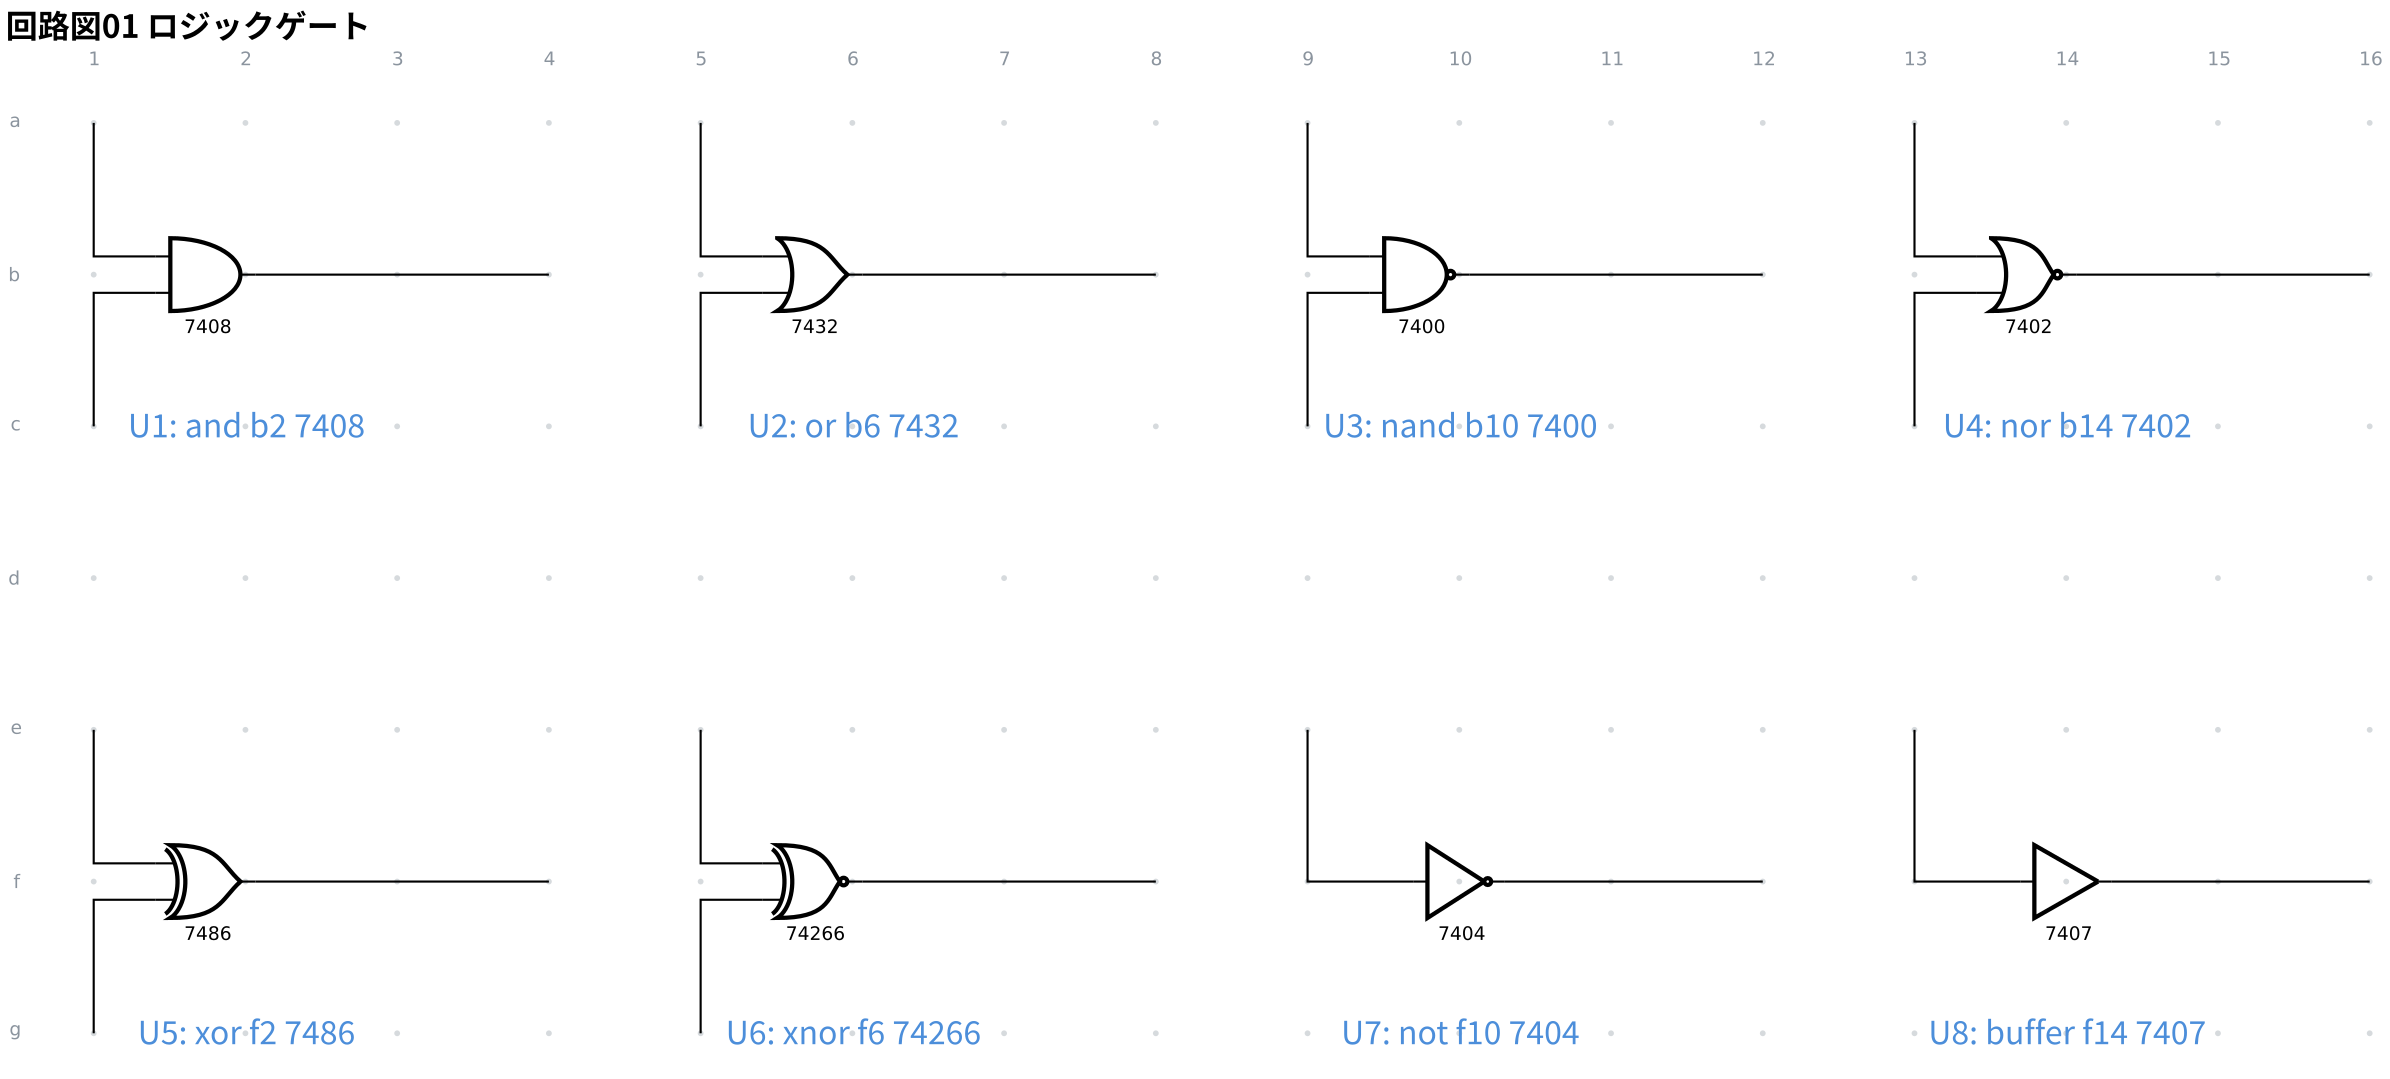
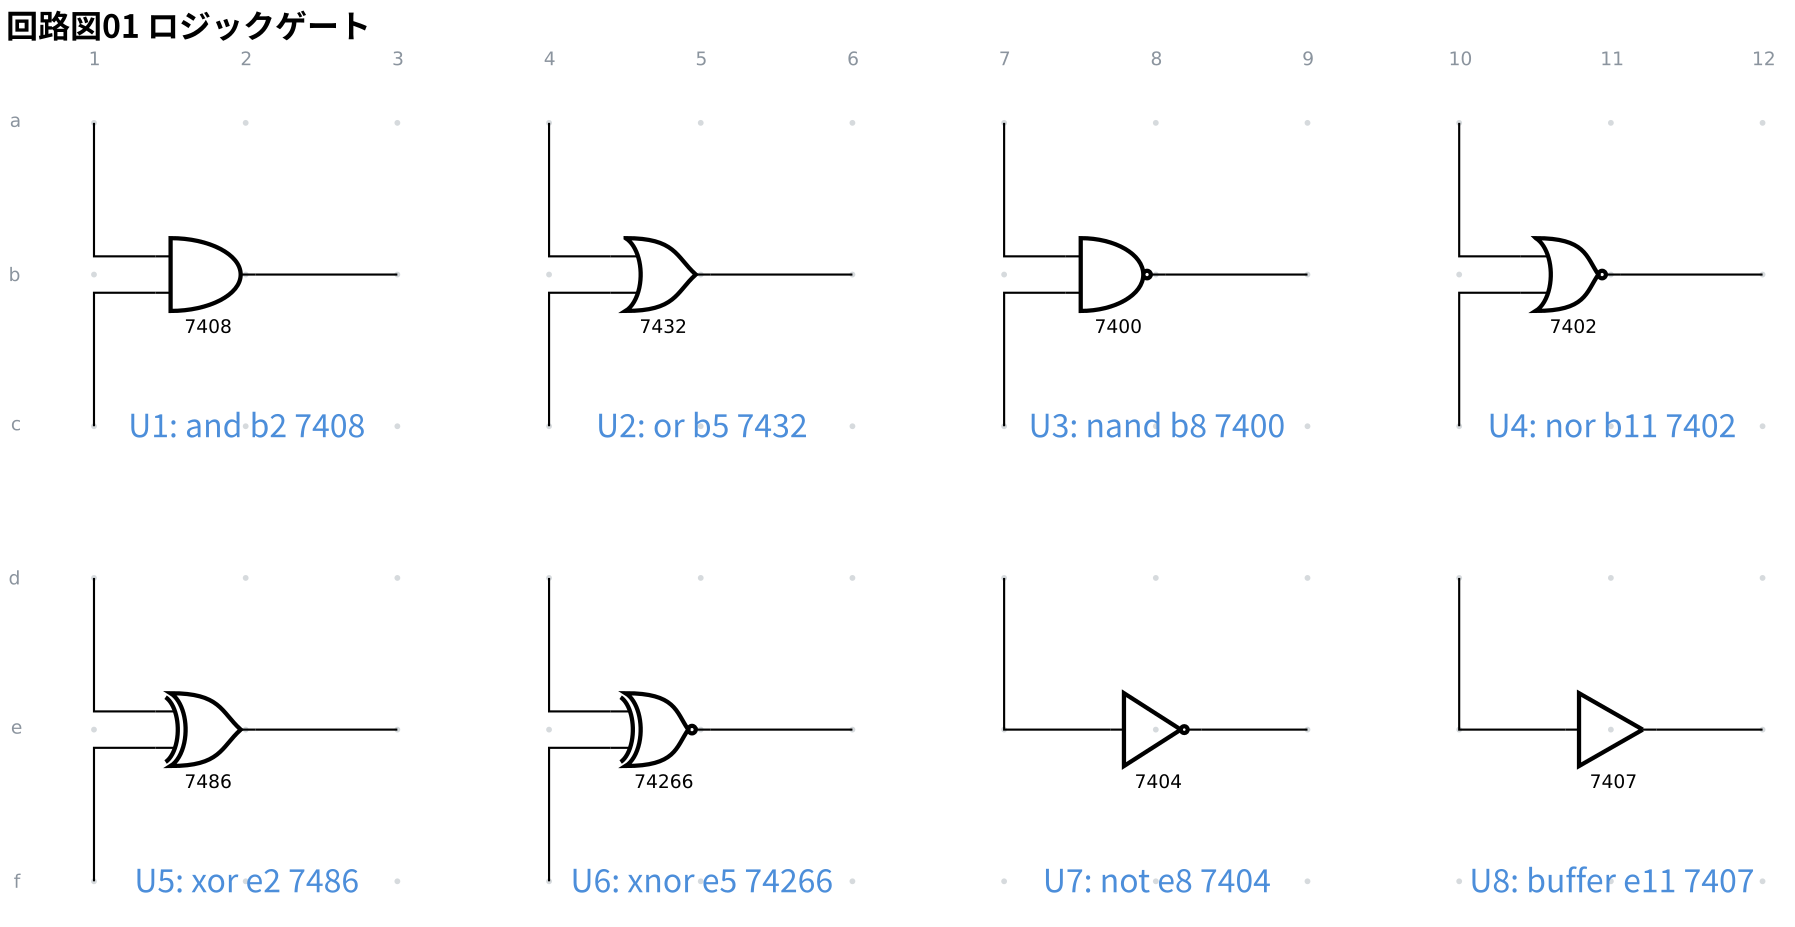
docs: ロジックゲートの図を詰める
ゲートの間隔を 4 列から 3 列に、出力の線を 2 マスから 1 マスに
縮め、段の間の空行 (d 行) をなくす。16 列 × 7 行が 12 列 × 6 行に
収まり、埋め込み先 (syntax.md) で記号が大きく出る。

🤖 Generated with [Claude Code](https://claude.com/claude-code)

diff --git a/packages/circuit-fence/examples/out/11-logic-1.tex b/packages/circuit-fence/examples/out/11-logic-1.tex
@@ -5,7 +5,7 @@
 \begin{document}
 \begin{circuitikz}[american, line width=0.8pt]
 \ctikzset{bipoles/length=1.2cm}
-\foreach \x in {0,2,4,6,8,10,12,14,16,18,20,22,24,26,28,30} {\foreach \y in {0,-2,-4,-6,-8,-10,-12} {\fill[gray, opacity=0.35] (\x,\y) circle (1.1pt);}}
+\foreach \x in {0,2,4,6,8,10,12,14,16,18,20,22} {\foreach \y in {0,-2,-4,-6,-8,-10} {\fill[gray, opacity=0.35] (\x,\y) circle (1.1pt);}}
 \node[gray, font=\scriptsize] at (0,0.84) {1};
 \node[gray, font=\scriptsize] at (2,0.84) {2};
 \node[gray, font=\scriptsize] at (4,0.84) {3};
@@ -18,101 +18,96 @@
 \node[gray, font=\scriptsize] at (18,0.84) {10};
 \node[gray, font=\scriptsize] at (20,0.84) {11};
 \node[gray, font=\scriptsize] at (22,0.84) {12};
-\node[gray, font=\scriptsize] at (24,0.84) {13};
-\node[gray, font=\scriptsize] at (26,0.84) {14};
-\node[gray, font=\scriptsize] at (28,0.84) {15};
-\node[gray, font=\scriptsize] at (30,0.84) {16};
 \node[gray, font=\scriptsize, anchor=east] at (-0.84,0) {a};
 \node[gray, font=\scriptsize, anchor=east] at (-0.84,-2) {b};
 \node[gray, font=\scriptsize, anchor=east] at (-0.84,-4) {c};
 \node[gray, font=\scriptsize, anchor=east] at (-0.84,-6) {d};
 \node[gray, font=\scriptsize, anchor=east] at (-0.84,-8) {e};
 \node[gray, font=\scriptsize, anchor=east] at (-0.84,-10) {f};
-\node[gray, font=\scriptsize, anchor=east] at (-0.84,-12) {g};
 \coordinate (b2) at (2,-2);
-\coordinate (b6) at (10,-2);
-\coordinate (b10) at (18,-2);
-\coordinate (b14) at (26,-2);
-\coordinate (f2) at (2,-10);
-\coordinate (f6) at (10,-10);
-\coordinate (f10) at (18,-10);
-\coordinate (f14) at (26,-10);
+\coordinate (b5) at (8,-2);
+\coordinate (b8) at (14,-2);
+\coordinate (b11) at (20,-2);
+\coordinate (e2) at (2,-8);
+\coordinate (e5) at (8,-8);
+\coordinate (e8) at (14,-8);
+\coordinate (e11) at (20,-8);
 \coordinate (a1) at (0,0);
 \coordinate (c1) at (0,-4);
-\coordinate (b4) at (6,-2);
-\coordinate (a5) at (8,0);
-\coordinate (c5) at (8,-4);
-\coordinate (b8) at (14,-2);
-\coordinate (a9) at (16,0);
-\coordinate (c9) at (16,-4);
+\coordinate (b3) at (4,-2);
+\coordinate (a4) at (6,0);
+\coordinate (c4) at (6,-4);
+\coordinate (b6) at (10,-2);
+\coordinate (a7) at (12,0);
+\coordinate (c7) at (12,-4);
+\coordinate (b9) at (16,-2);
+\coordinate (a10) at (18,0);
+\coordinate (c10) at (18,-4);
 \coordinate (b12) at (22,-2);
-\coordinate (a13) at (24,0);
-\coordinate (c13) at (24,-4);
-\coordinate (b16) at (30,-2);
-\coordinate (e1) at (0,-8);
-\coordinate (g1) at (0,-12);
+\coordinate (d1) at (0,-6);
+\coordinate (f1) at (0,-10);
+\coordinate (e3) at (4,-8);
+\coordinate (d4) at (6,-6);
 \coordinate (f4) at (6,-10);
-\coordinate (e5) at (8,-8);
-\coordinate (g5) at (8,-12);
-\coordinate (f8) at (14,-10);
+\coordinate (e6) at (10,-8);
+\coordinate (d7) at (12,-6);
 \coordinate (e9) at (16,-8);
-\coordinate (f12) at (22,-10);
-\coordinate (e13) at (24,-8);
-\coordinate (f16) at (30,-10);
+\coordinate (d10) at (18,-6);
+\coordinate (e12) at (22,-8);
 \node[and port] (part-U1) at (b2) {}; % line 3
 \node[font=\scriptsize, anchor=north] at (part-U1.south) {$\mathrm{7408}$}; % line 3
-\node[or port] (part-U2) at (b6) {}; % line 4
+\node[or port] (part-U2) at (b5) {}; % line 4
 \node[font=\scriptsize, anchor=north] at (part-U2.south) {$\mathrm{7432}$}; % line 4
-\node[nand port] (part-U3) at (b10) {}; % line 5
+\node[nand port] (part-U3) at (b8) {}; % line 5
 \node[font=\scriptsize, anchor=north] at (part-U3.south) {$\mathrm{7400}$}; % line 5
-\node[nor port] (part-U4) at (b14) {}; % line 6
+\node[nor port] (part-U4) at (b11) {}; % line 6
 \node[font=\scriptsize, anchor=north] at (part-U4.south) {$\mathrm{7402}$}; % line 6
-\node[xor port] (part-U5) at (f2) {}; % line 7
+\node[xor port] (part-U5) at (e2) {}; % line 7
 \node[font=\scriptsize, anchor=north] at (part-U5.south) {$\mathrm{7486}$}; % line 7
-\node[xnor port] (part-U6) at (f6) {}; % line 8
+\node[xnor port] (part-U6) at (e5) {}; % line 8
 \node[font=\scriptsize, anchor=north] at (part-U6.south) {$\mathrm{74266}$}; % line 8
-\node[not port] (part-U7) at (f10) {}; % line 9
+\node[not port] (part-U7) at (e8) {}; % line 9
 \node[font=\scriptsize, anchor=north] at (part-U7.south) {$\mathrm{7404}$}; % line 9
-\node[buffer port] (part-U8) at (f14) {}; % line 10
+\node[buffer port] (part-U8) at (e11) {}; % line 10
 \node[font=\scriptsize, anchor=north] at (part-U8.south) {$\mathrm{7407}$}; % line 10
 \draw (a1) |- (part-U1.in 1); % line 12
 \draw (c1) |- (part-U1.in 2); % line 13
-\draw (part-U1.out) -| (b4); % line 14
-\draw (a5) |- (part-U2.in 1); % line 15
-\draw (c5) |- (part-U2.in 2); % line 16
-\draw (part-U2.out) -| (b8); % line 17
-\draw (a9) |- (part-U3.in 1); % line 18
-\draw (c9) |- (part-U3.in 2); % line 19
-\draw (part-U3.out) -| (b12); % line 20
-\draw (a13) |- (part-U4.in 1); % line 21
-\draw (c13) |- (part-U4.in 2); % line 22
-\draw (part-U4.out) -| (b16); % line 23
-\draw (e1) |- (part-U5.in 1); % line 24
-\draw (g1) |- (part-U5.in 2); % line 25
-\draw (part-U5.out) -| (f4); % line 26
-\draw (e5) |- (part-U6.in 1); % line 27
-\draw (g5) |- (part-U6.in 2); % line 28
-\draw (part-U6.out) -| (f8); % line 29
-\draw (e9) |- (part-U7.in); % line 30
-\draw (part-U7.out) -| (f12); % line 31
-\draw (e13) |- (part-U8.in); % line 32
-\draw (part-U8.out) -| (f16); % line 33
+\draw (part-U1.out) -| (b3); % line 14
+\draw (a4) |- (part-U2.in 1); % line 15
+\draw (c4) |- (part-U2.in 2); % line 16
+\draw (part-U2.out) -| (b6); % line 17
+\draw (a7) |- (part-U3.in 1); % line 18
+\draw (c7) |- (part-U3.in 2); % line 19
+\draw (part-U3.out) -| (b9); % line 20
+\draw (a10) |- (part-U4.in 1); % line 21
+\draw (c10) |- (part-U4.in 2); % line 22
+\draw (part-U4.out) -| (b12); % line 23
+\draw (d1) |- (part-U5.in 1); % line 24
+\draw (f1) |- (part-U5.in 2); % line 25
+\draw (part-U5.out) -| (e3); % line 26
+\draw (d4) |- (part-U6.in 1); % line 27
+\draw (f4) |- (part-U6.in 2); % line 28
+\draw (part-U6.out) -| (e6); % line 29
+\draw (d7) |- (part-U7.in); % line 30
+\draw (part-U7.out) -| (e9); % line 31
+\draw (d10) |- (part-U8.in); % line 32
+\draw (part-U8.out) -| (e12); % line 33
 \path (0.095,-4.593) rectangle (3.905,-3.407); % line 35
 \node[anchor=west, inner sep=0, circuitnotemark, font=\large] at (2,-4) {X}; % line 35
-\path (8.222,-4.593) rectangle (11.778,-3.407); % line 36
-\node[anchor=west, inner sep=0, circuitnotemark, font=\large] at (10,-4) {X}; % line 36
-\path (15.841,-4.593) rectangle (20.159,-3.407); % line 37
-\node[anchor=west, inner sep=0, circuitnotemark, font=\large] at (18,-4) {X}; % line 37
-\path (23.968,-4.593) rectangle (28.032,-3.407); % line 38
-\node[anchor=west, inner sep=0, circuitnotemark, font=\large] at (26,-4) {X}; % line 38
-\path (0.095,-12.593) rectangle (3.905,-11.407); % line 39
-\node[anchor=west, inner sep=0, circuitnotemark, font=\large] at (2,-12) {X}; % line 39
-\path (7.841,-12.593) rectangle (12.159,-11.407); % line 40
-\node[anchor=west, inner sep=0, circuitnotemark, font=\large] at (10,-12) {X}; % line 40
-\path (15.968,-12.593) rectangle (20.032,-11.407); % line 41
-\node[anchor=west, inner sep=0, circuitnotemark, font=\large] at (18,-12) {X}; % line 41
-\path (23.587,-12.593) rectangle (28.413,-11.407); % line 42
-\node[anchor=west, inner sep=0, circuitnotemark, font=\large] at (26,-12) {X}; % line 42
+\path (6.222,-4.593) rectangle (9.778,-3.407); % line 36
+\node[anchor=west, inner sep=0, circuitnotemark, font=\large] at (8,-4) {X}; % line 36
+\path (11.968,-4.593) rectangle (16.032,-3.407); % line 37
+\node[anchor=west, inner sep=0, circuitnotemark, font=\large] at (14,-4) {X}; % line 37
+\path (17.968,-4.593) rectangle (22.032,-3.407); % line 38
+\node[anchor=west, inner sep=0, circuitnotemark, font=\large] at (20,-4) {X}; % line 38
+\path (0.095,-10.593) rectangle (3.905,-9.407); % line 39
+\node[anchor=west, inner sep=0, circuitnotemark, font=\large] at (2,-10) {X}; % line 39
+\path (5.841,-10.593) rectangle (10.159,-9.407); % line 40
+\node[anchor=west, inner sep=0, circuitnotemark, font=\large] at (8,-10) {X}; % line 40
+\path (12.095,-10.593) rectangle (15.905,-9.407); % line 41
+\node[anchor=west, inner sep=0, circuitnotemark, font=\large] at (14,-10) {X}; % line 41
+\path (17.587,-10.593) rectangle (22.413,-9.407); % line 42
+\node[anchor=west, inner sep=0, circuitnotemark, font=\large] at (20,-10) {X}; % line 42
 \node[anchor=south west, inner sep=2pt, circuitnotemark, font=\large\bfseries] (circuittitle) at (current bounding box.north west) {X};
 \path (circuittitle.south west) rectangle ++(5.652,0.593);
 \end{circuitikz}

diff --git a/packages/circuit-fence/examples/11-logic.md b/packages/circuit-fence/examples/11-logic.md
@@ -7,45 +7,45 @@
 title: 回路図01 ロジックゲート
 parts:
   U1: and b2 7408
-  U2: or b6 7432
-  U3: nand b10 7400
-  U4: nor b14 7402
-  U5: xor f2 7486
-  U6: xnor f6 74266
-  U7: not f10 7404
-  U8: buffer f14 7407
+  U2: or b5 7432
+  U3: nand b8 7400
+  U4: nor b11 7402
+  U5: xor e2 7486
+  U6: xnor e5 74266
+  U7: not e8 7404
+  U8: buffer e11 7407
 wires:
   - a1 |- U1.a
   - c1 |- U1.b
-  - U1.out -| b4
-  - a5 |- U2.a
-  - c5 |- U2.b
-  - U2.out -| b8
-  - a9 |- U3.a
-  - c9 |- U3.b
-  - U3.out -| b12
-  - a13 |- U4.a
-  - c13 |- U4.b
-  - U4.out -| b16
-  - e1 |- U5.a
-  - g1 |- U5.b
-  - U5.out -| f4
-  - e5 |- U6.a
-  - g5 |- U6.b
-  - U6.out -| f8
-  - e9 |- U7.in
-  - U7.out -| f12
-  - e13 |- U8.in
-  - U8.out -| f16
+  - U1.out -| b3
+  - a4 |- U2.a
+  - c4 |- U2.b
+  - U2.out -| b6
+  - a7 |- U3.a
+  - c7 |- U3.b
+  - U3.out -| b9
+  - a10 |- U4.a
+  - c10 |- U4.b
+  - U4.out -| b12
+  - d1 |- U5.a
+  - f1 |- U5.b
+  - U5.out -| e3
+  - d4 |- U6.a
+  - f4 |- U6.b
+  - U6.out -| e6
+  - d7 |- U7.in
+  - U7.out -| e9
+  - d10 |- U8.in
+  - U8.out -| e12
 notes:
   - text c2 blue large center: "U1: and b2 7408"
-  - text c6 blue large center: "U2: or b6 7432"
-  - text c10 blue large center: "U3: nand b10 7400"
-  - text c14 blue large center: "U4: nor b14 7402"
-  - text g2 blue large center: "U5: xor f2 7486"
-  - text g6 blue large center: "U6: xnor f6 74266"
-  - text g10 blue large center: "U7: not f10 7404"
-  - text g14 blue large center: "U8: buffer f14 7407"
+  - text c5 blue large center: "U2: or b5 7432"
+  - text c8 blue large center: "U3: nand b8 7400"
+  - text c11 blue large center: "U4: nor b11 7402"
+  - text f2 blue large center: "U5: xor e2 7486"
+  - text f5 blue large center: "U6: xnor e5 74266"
+  - text f8 blue large center: "U7: not e8 7404"
+  - text f11 blue large center: "U8: buffer e11 7407"
 style:
   grid: on
 ```
